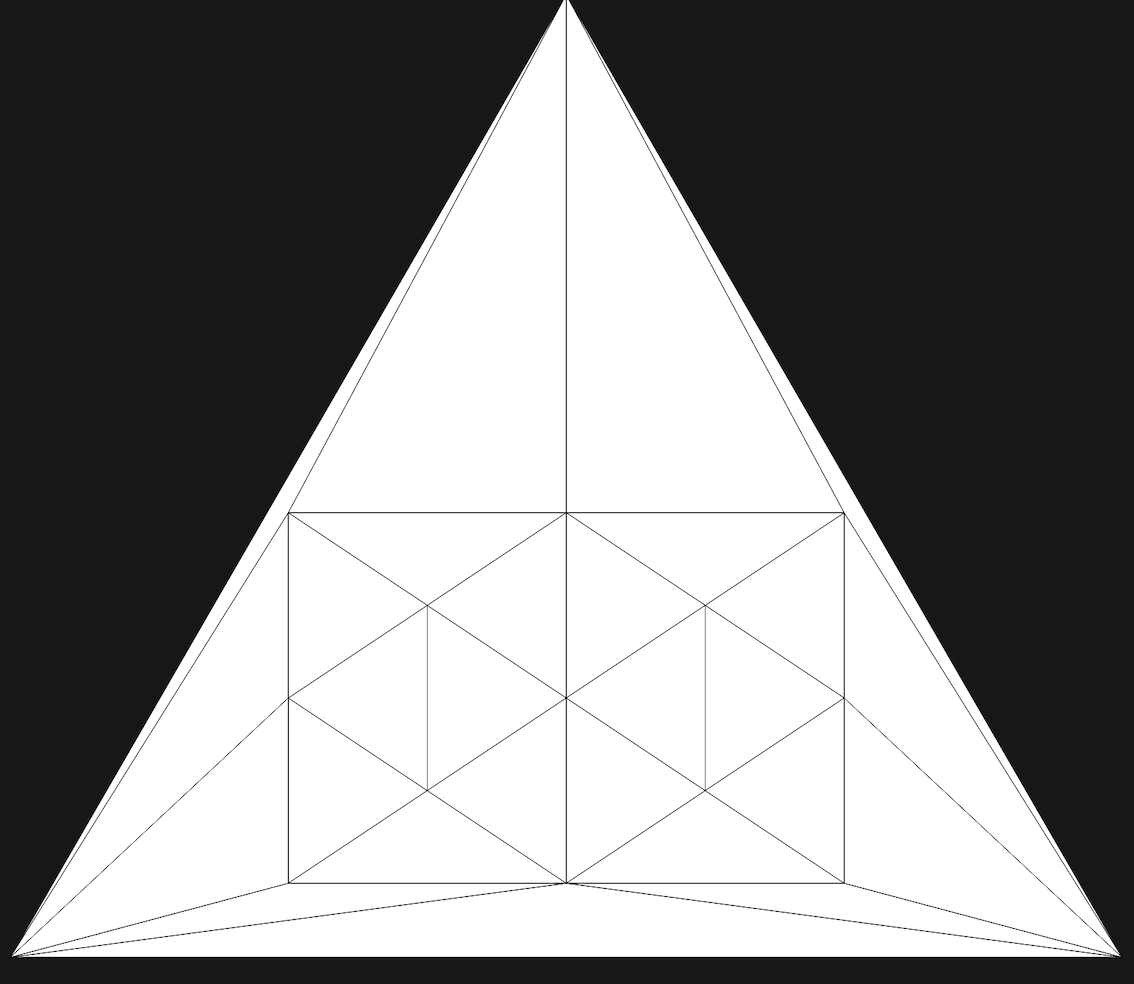
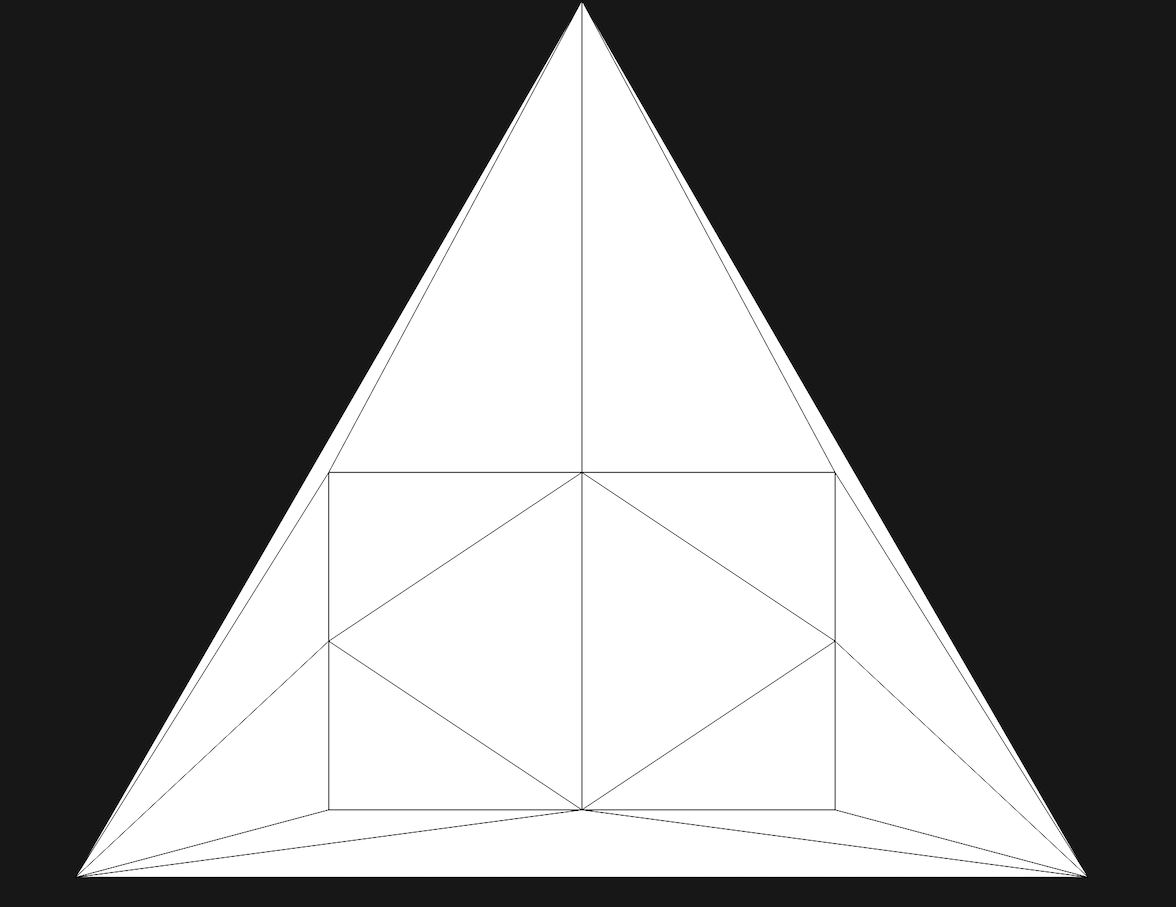
Demo

diff --git a/main.cpp b/main.cpp
@@ -20,28 +20,10 @@ int main(int argc, char *argv[])
 
     std::vector<Point> testCaseInner = { Point(7.5, 2.0), Point(15.0, 2.0), Point(22.5, 2.0), Point(22.5, 7.0), Point(22.5, 12.0), Point(15.0, 12.0), Point(7.5, 12.0), Point(7.5, 7.0), Point(15, 7), Point(11.25, 4.5), Point(18.75, 9.5), Point(18.75, 4.5), Point(11.25, 9.5), Point(11.25, 7), Point(18.75, 7) };
 
-    std::vector<Point> testCasePicture =
-        {
-
-            // 0 y = 13
-            Point(11.0, 13.0), Point(13.0, 13.0), Point(17.0, 13.0), Point(19.0, 13.0),
-
-            // 1 y = 9
-            Point(9.0, 11.0), Point(15.0, 11.0), Point(21.0, 11.0),
-
-            // 2 y = 7
-            Point(21.0, 9.0), Point(9.0, 9.0),
-
-            // 3 y = 5
-            Point(11.0, 7.0), Point(19.0, 7.0),
-
-            //4 y = 3
-            Point(15.0, 3.0),
-
-        };
+    std::vector<Point> testCasePicture = { Point(11.0, 13.0), Point(13.0, 13.0), Point(17.0, 13.0), Point(19.0, 13.0), Point(9.0, 11.0), Point(15.0, 11.0), Point(21.0, 11.0),Point(21.0, 9.0), Point(9.0, 9.0), Point(11.0, 7.0), Point(19.0, 7.0), Point(15.0, 3.0) };
 
     // Mesh Workflow
-    Mesh k(testCaseHex);
+    Mesh k(testCaseRect);
     k.setTriVector({ k.superTriangle() });
     k.buildMesh();
     k.removeHelperTriangles();
